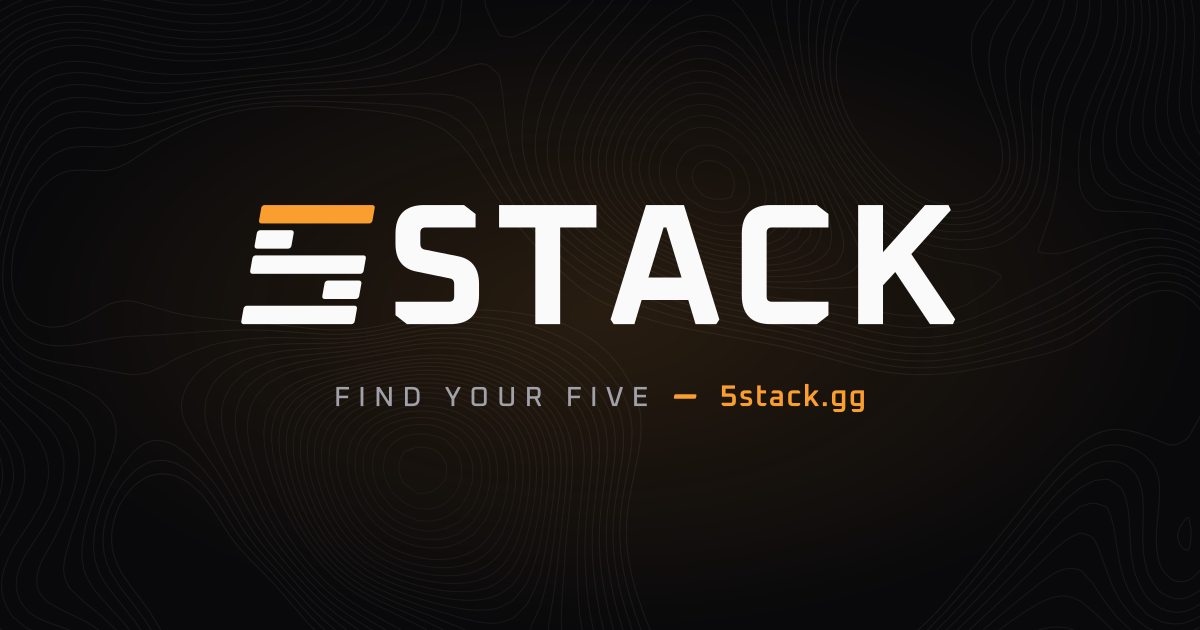
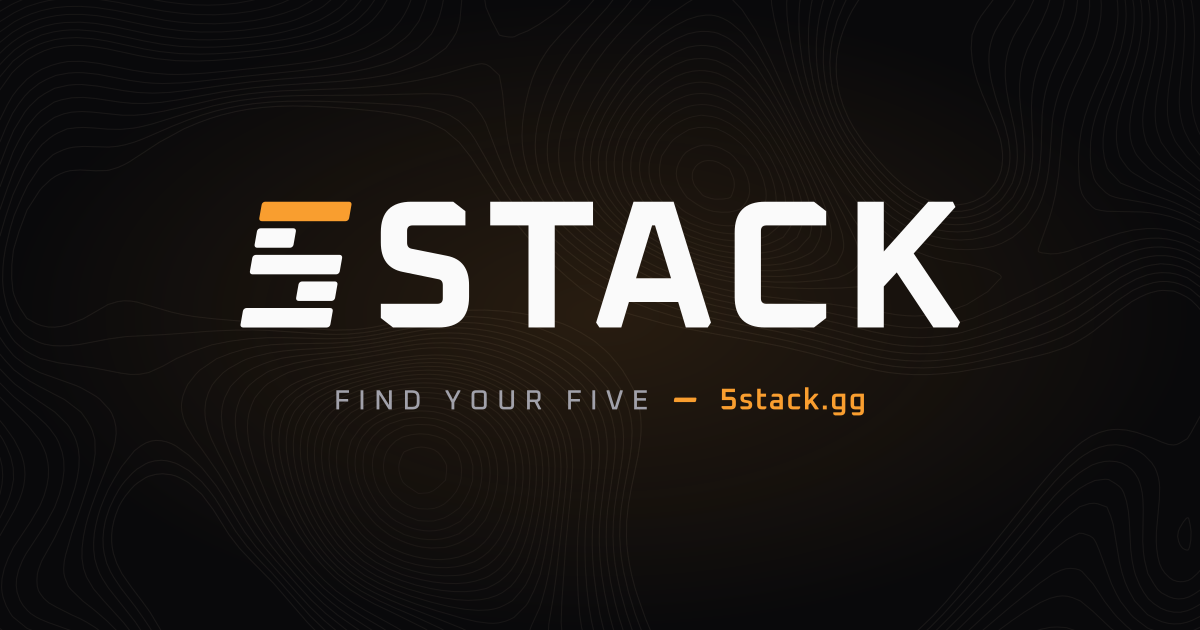
chore: the wordmark's 5 matches the S and STACK is kerned, from 5stackgg/brand (#128)
The wordmarks and the og card come from the brand repo's new wordmark. Its 5 is
narrower, so the tablet nav's mark-only crop is 22px wide, which ends between
the 5 and the S.

diff --git a/.vitepress/theme/custom.css b/.vitepress/theme/custom.css
@@ -102,7 +102,7 @@
    with the whole menu, which leaves no room for the full wordmark: show its mark. */
 @media (min-width: 768px) and (max-width: 959px) {
   .VPNavBarTitle .logo {
-    width: 26px;
+    width: 22px; /* ends in the gap between the 5 and the S */
     object-fit: cover;
     object-position: left;
   }
